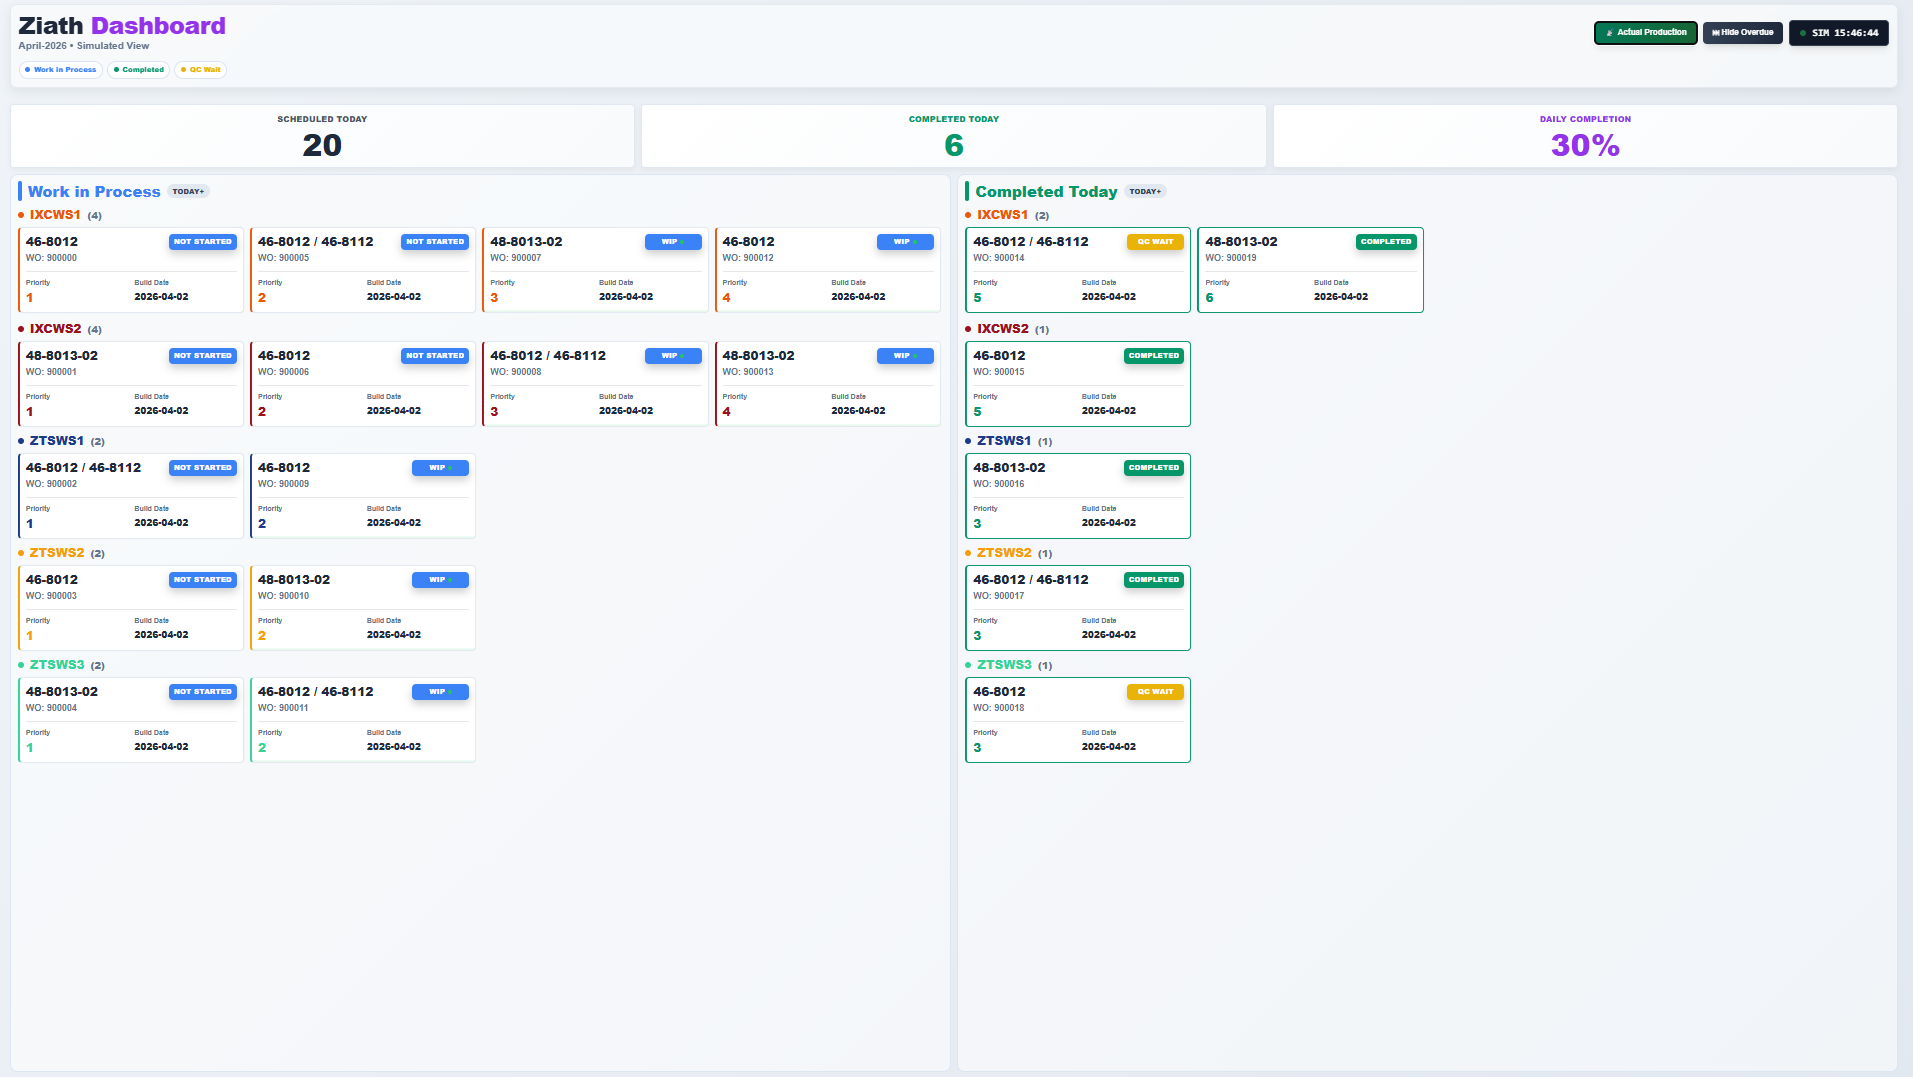
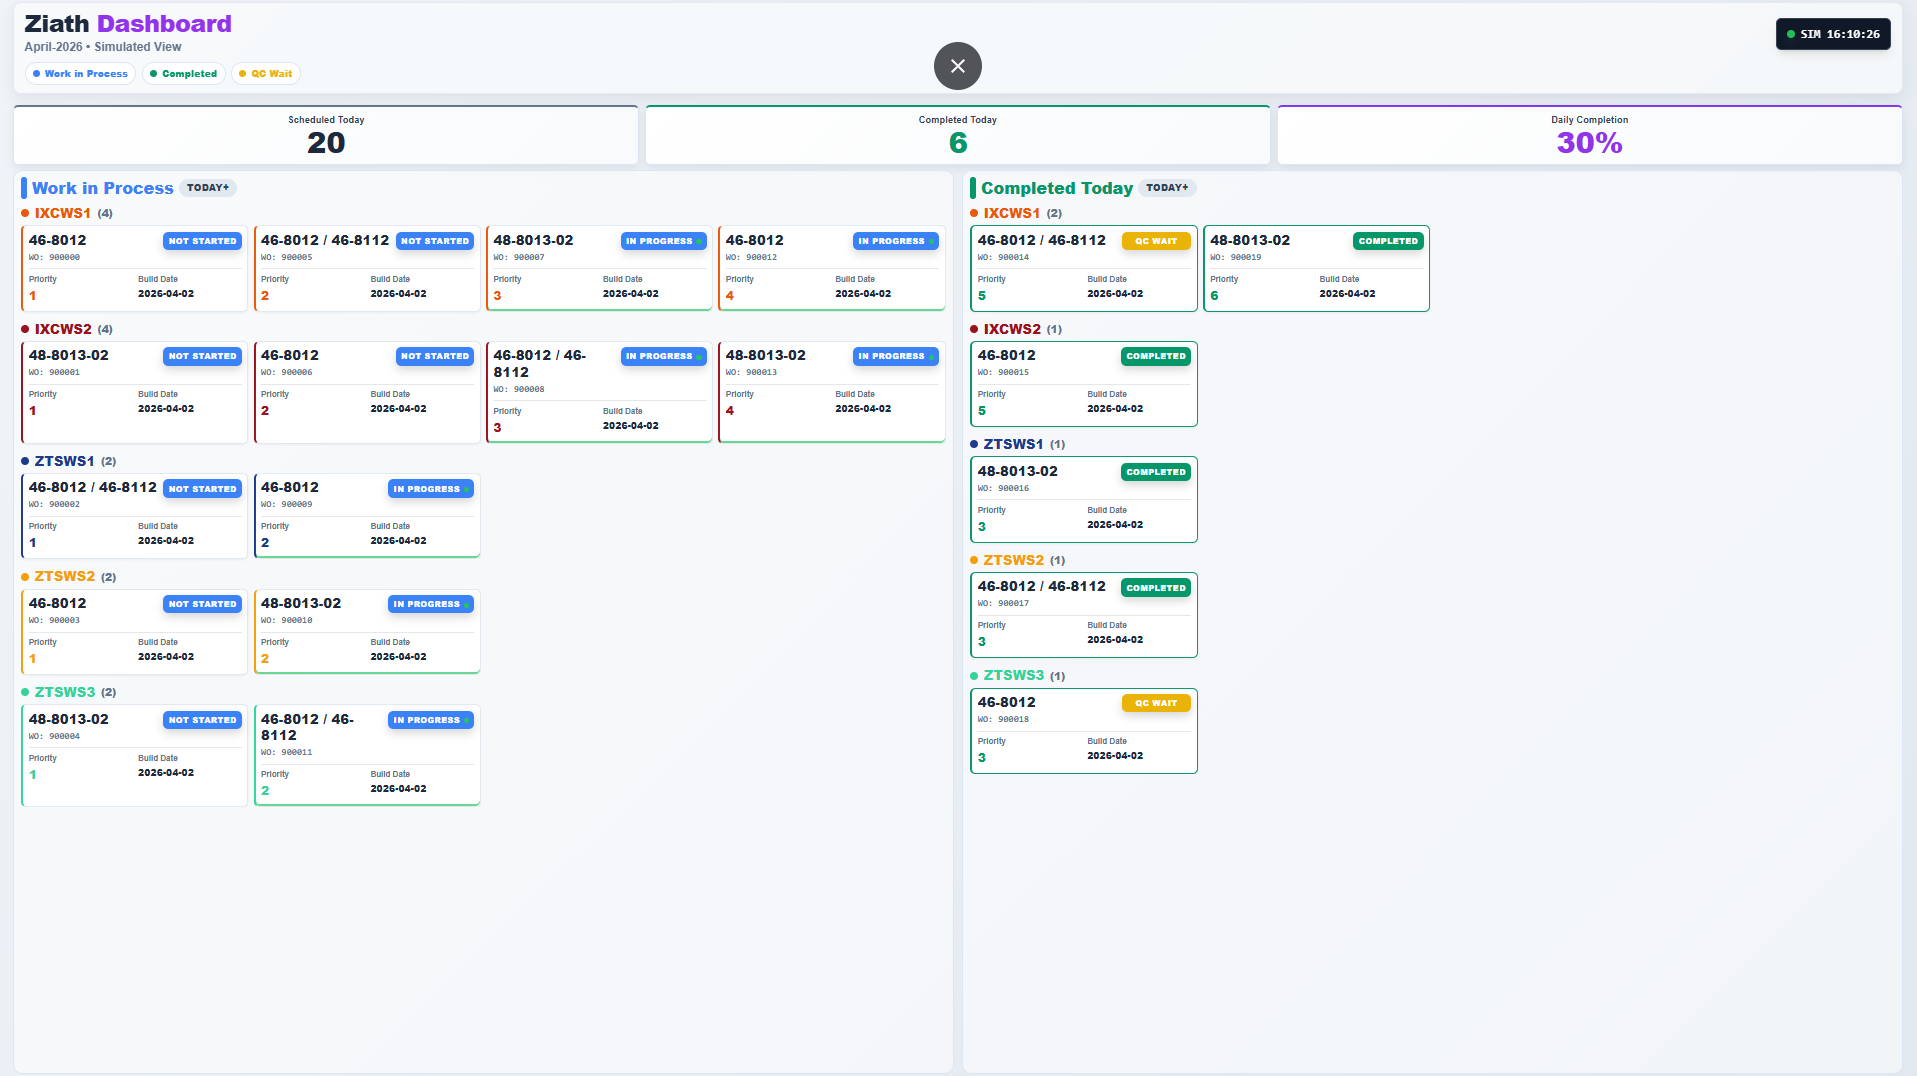
Update dashboard screenshot and refine KPI typography

diff --git a/public/index.html b/public/index.html
@@ -34,17 +34,20 @@
             transition: all 0.2s ease;
         }
         .metric-label {
-            font-size: 0.78rem;
-            font-weight: 800;
-            letter-spacing: 0.08em;
+            font-size: 0.86rem;
+            font-weight: 700;
+            letter-spacing: 0.015em;
             text-transform: none;
-            color: #475569;
-            margin-bottom: 0.2rem;
+            line-height: 1.15;
+            color: #334155;
+            margin-bottom: 0.28rem;
         }
         .metric-value {
-            font-size: 2.65rem;
-            line-height: 1;
+            font-size: 2.75rem;
+            line-height: 0.95;
             font-weight: 900;
+            font-variant-numeric: tabular-nums;
+            letter-spacing: -0.015em;
         }
         .metric-card-scheduled {
             border-top: 3px solid #64748b;
@@ -185,6 +188,81 @@
                 padding: 0.3rem 0.5rem;
             }
         }
+        @media (min-width: 1700px) and (max-height: 1080px) {
+            body {
+                font-size: 15px;
+            }
+            .dashboard-shell {
+                height: calc(100vh - 0.45rem);
+                gap: 0.4rem;
+            }
+            .toolbar {
+                padding-top: 0.45rem;
+                padding-bottom: 0.45rem;
+            }
+            .dashboard-title {
+                font-size: 2.1rem;
+            }
+            #monthLabel {
+                font-size: 0.95rem;
+                margin-top: 0.15rem;
+            }
+            .legend-chip {
+                font-size: 0.74rem;
+                padding: 0.2rem 0.5rem;
+            }
+            .kpi-grid {
+                gap: 0.4rem;
+            }
+            .kpi-grid .metric-card {
+                padding: 0.5rem !important;
+            }
+            .metric-label {
+                font-size: 0.76rem;
+                font-weight: 700;
+                letter-spacing: 0.01em;
+                margin-bottom: 0.18rem;
+            }
+            .metric-value {
+                font-size: 2.35rem;
+            }
+            .section-panel {
+                padding: 0.45rem 0.55rem;
+            }
+            .section-title {
+                font-size: 1.35rem;
+                margin-bottom: 0.35rem;
+                gap: 0.45rem;
+            }
+            .section-title > span:first-child {
+                height: 1.6rem;
+            }
+            .status-badge {
+                min-width: 96px;
+                font-size: 0.68rem;
+                padding: 0.22rem 0.45rem;
+            }
+            .station-group {
+                margin-bottom: 0.4rem;
+            }
+            .station-group h4 {
+                font-size: 1.04rem;
+                margin-bottom: 0.25rem;
+            }
+            .station-grid {
+                gap: 0.4rem;
+            }
+            .card {
+                padding: 0.45rem !important;
+            }
+            .card h5 {
+                font-size: 1rem !important;
+                margin-bottom: 0.15rem !important;
+            }
+            .card .font-mono {
+                font-size: 0.72rem !important;
+            }
+        }
         /* Toolbar hover-reveal buttons */
         .toolbar-btn {
             opacity: 0;
@@ -207,7 +285,7 @@
         <div class="toolbar rounded-xl px-4 py-3 mb-2">
         <div class="flex justify-between items-center gap-4">
             <div>
-                <h1 class="text-4xl font-black tracking-tight text-light leading-none">
+                <h1 class="dashboard-title text-4xl font-black tracking-tight text-light leading-none">
                     Ziath <span class="text-purple-600">Dashboard</span>
                 </h1>
                 <p id="monthLabel" class="text-secondary font-bold text-lg mt-1"></p>
@@ -232,7 +310,7 @@
         </div>
         </div>
 
-        <div class="grid grid-cols-3 gap-2">
+        <div class="kpi-grid grid grid-cols-3 gap-2">
             <div class="metric-card metric-card-scheduled p-3 rounded-lg text-center">
                 <p class="metric-label">Scheduled Today</p>
                 <h2 id="totalScheduled" class="metric-value text-light">0</h2>
@@ -249,7 +327,7 @@
 
         <div class="section-grid">
         <div class="section-panel">
-            <h3 class="text-2xl font-black mb-2 text-blue-500 flex items-center gap-2">
+            <h3 class="section-title text-2xl font-black mb-2 text-blue-500 flex items-center gap-2">
                 <span class="w-2 h-8 bg-blue-500 rounded"></span>
                 Work in Process
                 <span id="filterModeBadgeWip" class="text-sm px-3 py-1 rounded-full bg-slate-200 text-slate-700 font-black uppercase tracking-wide">Today+</span>
@@ -260,7 +338,7 @@
         </div>
 
         <div class="section-panel">
-            <h3 class="text-2xl font-black mb-2 text-emerald-600 flex items-center gap-2">
+            <h3 class="section-title text-2xl font-black mb-2 text-emerald-600 flex items-center gap-2">
                 <span class="w-2 h-8 bg-emerald-600 rounded"></span>
                 Completed Today
                 <span id="filterModeBadgeCompleted" class="text-sm px-3 py-1 rounded-full bg-slate-200 text-slate-700 font-black uppercase tracking-wide">Today+</span>
